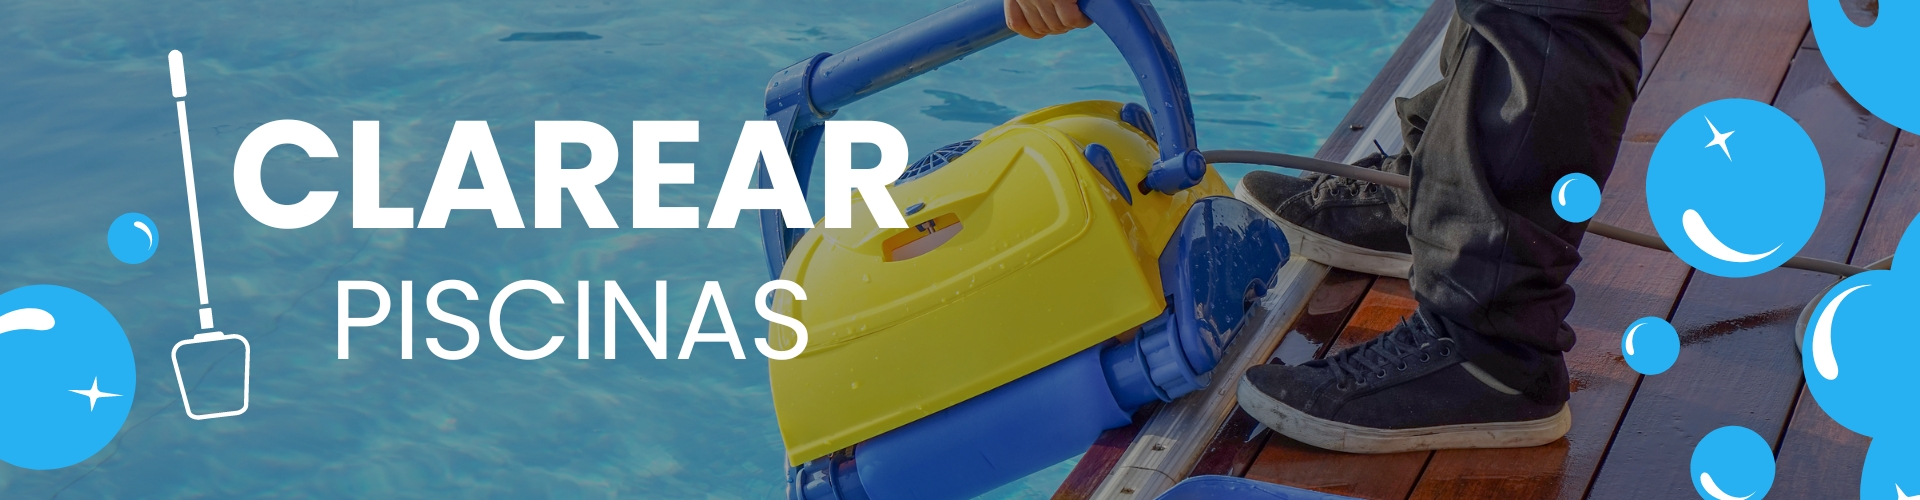
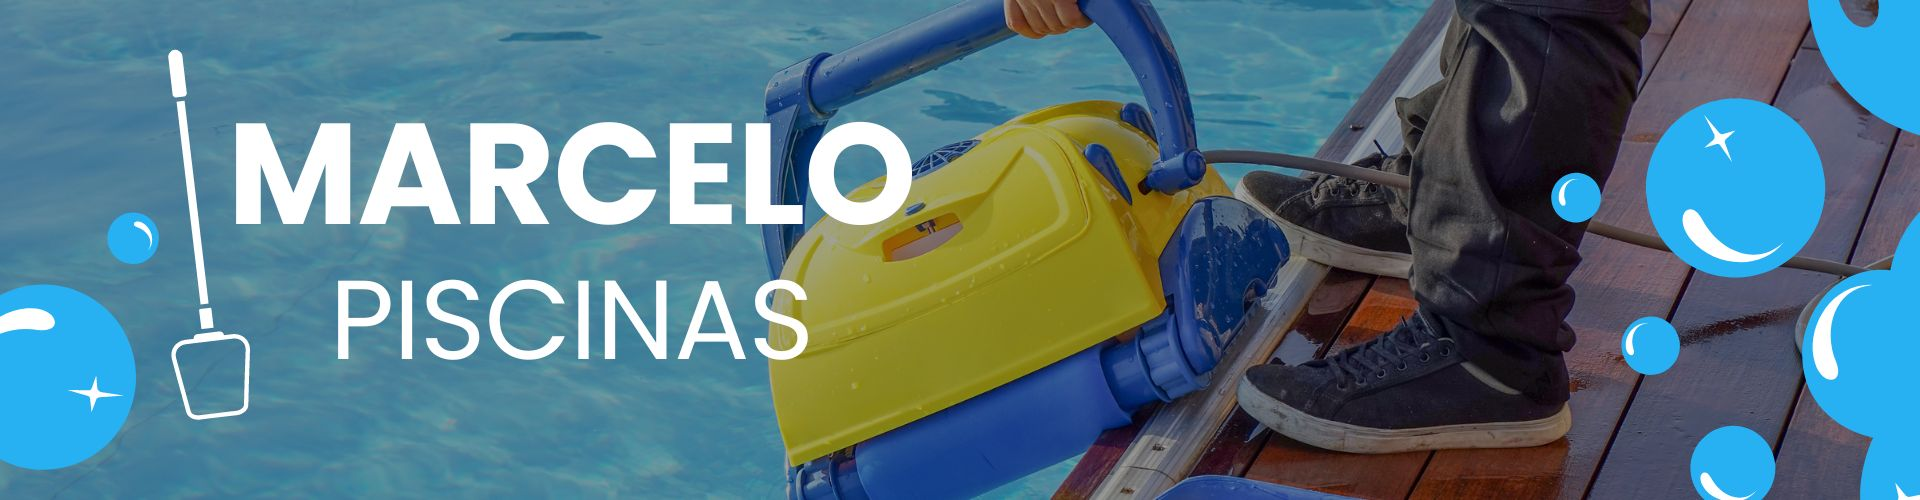
alterações marcelo

Changed region(s): [[0.125, 0.24, 0.5, 0.48]]

diff --git a/index.html b/index.html
@@ -4,19 +4,19 @@
 <head>
     <meta charset="UTF-8">
     <meta name="robots" content="index, follow" />
-    <meta name="author" content="Clarear Piscinas" />
+    <meta name="author" content="Marcelo Piscinas" />
     <meta name="viewport" content="width=device-width, initial-scale=1.0">
     <meta name="description"
-        content="Garanta uma piscina sempre limpa e cristalina com a Clarear Piscinas. Oferecemos serviços profissionais de limpeza, tratamento químico e manutenção para piscinas residenciais e comerciais. Atendimento rápido e confiável. Solicite uma cotação!">
+        content="Garanta uma piscina sempre limpa e cristalina com a Marcelo Piscinas. Oferecemos serviços profissionais de limpeza, tratamento químico e manutenção para piscinas residenciais e comerciais. Atendimento rápido e confiável. Solicite uma cotação!">
     <meta name="keywords"
-        content="limpeza de piscinas, manutenção de piscinas, tratamento de água de piscina, serviços de piscina, Clarear Piscinas" />
-    <meta property="og:title" content="Clarear Piscinas - Limpeza e Manutenção Profissional de Piscinas" />
+        content="limpeza de piscinas, manutenção de piscinas, tratamento de água de piscina, serviços de piscina, Marcelo Piscinas" />
+    <meta property="og:title" content="Marcelo Piscinas - Limpeza e Manutenção Profissional de Piscinas" />
     <meta property="og:description"
         content="Serviços especializados em limpeza, tratamento químico e manutenção de piscinas para residências e comércios. Agende sua visita!" />
     <meta property="og:image" content="URL_DA_IMAGEM" />
-    <meta property="og:url" content="https://www.clarearpiscinas.com.br" />
+    <meta property="og:url" content="https://www.marcelopiscinas.com.br" />
     <meta property="og:type" content="website" />
-    <title>Clarear Piscinas - Serviços de Limpeza e Manutenção de Piscinas Profissionais</title>
+    <title>Marcelo Piscinas - Serviços de Limpeza e Manutenção de Piscinas Profissionais</title>
     <link rel="preconnect" href="https://fonts.googleapis.com">
     <link rel="preconnect" href="https://fonts.gstatic.com" crossorigin>
     <link
@@ -51,7 +51,7 @@
                             <li><a href="#servicos">Serviços</a>                                
                             </li>
                             <li><a href="#contato">Contato</a></li>
-                            <a class="botaoPadrao botaoPadraoWhatsapp" rel="nofollow" target="_blank" href="https://wa.me/5517997717693?text=Olá!%20Gostaria%20de%20mais%20informações%20sobre%20os%20serviços%20de%20limpeza%20e%20manutenção%20de%20piscinas%20da%20Clarear%20Piscinas." target="_blank"
+                            <a class="botaoPadrao botaoPadraoWhatsapp" rel="nofollow" target="_blank" href="https://wa.me/5517997717693?text=Olá!%20Gostaria%20de%20mais%20informações%20sobre%20os%20serviços%20de%20limpeza%20e%20manutenção%20de%20piscinas%20da%20Marcelo%20Piscinas." target="_blank"
                                 onclick="gtag('event', 'Clique no link', {'event_category': 'Clique no WhatsApp', 'event_label': 'Whatsapp'}); gtag_report_conversion();">Fale
                                 Conosco<i class="fa fa-whatsapp " aria-hidden="true"></i></a>
                         </ul>
@@ -105,14 +105,14 @@
                     <h3 class="mb5 fSubtitulo" >Soluções completas de limpeza, manutenção e tratamento da água</h3>
                     <h1 class="mb30 fTitulo">Serviços Especializados para Manter Sua <span class="fTema">Piscina</span>
                         Sempre <span class="fTema">Perfeita</span></h1>
-                    <p class="mb30 fDescricao">Na Clarear Piscinas, oferecemos uma variedade de serviços essenciais para
+                    <p class="mb30 fDescricao">Na Marcelo Piscinas, oferecemos uma variedade de serviços essenciais para
                         garantir que sua piscina esteja sempre limpa, segura e pronta para o uso.
                         <br> <br>
                         Nossos serviços
                         profissionais atendem às necessidades de piscinas residenciais e comerciais, proporcionando água
                         cristalina e ambiente saudável. Confira abaixo nossas principais soluções.
                     </p>
-                    <div><a class="botaoPadrao botaoPadraoWhatsapp mb30" rel="nofollow" target="_blank" href="https://wa.me/5517997717693?text=Olá!%20Gostaria%20de%20mais%20informações%20sobre%20os%20serviços%20de%20limpeza%20e%20manutenção%20de%20piscinas%20da%20Clarear%20Piscinas." target="_blank"
+                    <div><a class="botaoPadrao botaoPadraoWhatsapp mb30" rel="nofollow" target="_blank" href="https://wa.me/5517997717693?text=Olá!%20Gostaria%20de%20mais%20informações%20sobre%20os%20serviços%20de%20limpeza%20e%20manutenção%20de%20piscinas%20da%20Marcelo%20Piscinas." target="_blank"
                             onclick="gtag('event', 'Clique no link', {'event_category': 'Clique no WhatsApp', 'event_label': 'Whatsapp'}); gtag_report_conversion();">Fale
                             Conosco<i class="fa fa-whatsapp " aria-hidden="true"></i></a>
 
@@ -120,7 +120,7 @@
                 </div>
                 <div class="col-md-6" data-aos="fade-left" data-aos-duration="2100">
                     <img src="img/servicos-img.svg" width="100%" class="servico-banner" border="0"
-                        title="Entre em contato e mantenha sua piscina sempre clara e segura com a Clarear Piscinas!"
+                        title="Entre em contato e mantenha sua piscina sempre clara e segura com a Marcelo Piscinas!"
                         alt="Imagem Ilustrando os serviços prestados">
                 </div>
             </div>
@@ -134,7 +134,7 @@
                     <div class="mb5 fSubtitulo">Serviços Especializados para Garantir uma Piscina Sempre Limpa e Segura
                     </div>
                     <div class="mb30 fTitulo">Cuidado Completo para Sua <span class="fTema">Piscina</span></div>
-                    <div class="mb50 fDescricao">Na Clarear Piscinas, oferecemos os serviços essenciais para manter sua
+                    <div class="mb50 fDescricao">Na Marcelo Piscinas, oferecemos os serviços essenciais para manter sua
                         piscina sempre perfeita. Desde a limpeza completa e manutenção de equipamentos até a recuperação
                         de águas verdes, nossa equipe especializada garante a qualidade da sua piscina para que você
                         aproveite sem preocupações.</div>
@@ -142,11 +142,11 @@
                 <div class="col-md-4 col-xs col-sm-4" data-aos="fade-up" data-aos-duration="1900">
                     <div class="servico-container">
                         <div class="servico-img">
-                            <a href="https://wa.me/5517997717693?text=Olá!%20Gostaria%20de%20mais%20informações%20sobre%20os%20serviços%20de%20limpeza%20e%20manutenção%20de%20piscinas%20da%20Clarear%20Piscinas." title="Clique aqui para inicar uma conversa via WhatsApp" target="_blank"><img src="img/servico-img1.svg" width="100%"
-                                    title="Entre em contato e mantenha sua piscina sempre clara e segura com a Clarear Piscinas!"
+                            <a href="https://wa.me/5517997717693?text=Olá!%20Gostaria%20de%20mais%20informações%20sobre%20os%20serviços%20de%20limpeza%20e%20manutenção%20de%20piscinas%20da%20Marcelo%20Piscinas." title="Clique aqui para inicar uma conversa via WhatsApp" target="_blank"><img src="img/servico-img1.svg" width="100%"
+                                    title="Entre em contato e mantenha sua piscina sempre clara e segura com a Marcelo Piscinas!"
                                     alt=""></a>
                         </div>
-                        <div class="servico-titulo"><a href="https://wa.me/5517997717693?text=Olá!%20Gostaria%20de%20mais%20informações%20sobre%20os%20serviços%20de%20limpeza%20e%20manutenção%20de%20piscinas%20da%20Clarear%20Piscinas." title="Clique aqui para inicar uma conversa via WhatsApp" target="_blank" class="lNeutro">Limpeza Completa da
+                        <div class="servico-titulo"><a href="https://wa.me/5517997717693?text=Olá!%20Gostaria%20de%20mais%20informações%20sobre%20os%20serviços%20de%20limpeza%20e%20manutenção%20de%20piscinas%20da%20Marcelo%20Piscinas." title="Clique aqui para inicar uma conversa via WhatsApp" target="_blank" class="lNeutro">Limpeza Completa da
                                 Piscina</a></div>
                         <div class="servico-descricao hidden-xs hidden-sm">Remoção de folhas, sujeira e detritos, aspiração do fundo da
                             piscina, e escovação das paredes e bordas. Mantemos a aparência e a higiene da sua piscina
@@ -156,11 +156,11 @@
                 <div class="col-md-4 col-xs col-sm-4" data-aos="fade-up" data-aos-duration="2200">
                     <div class="servico-container">
                         <div class="servico-img">
-                            <a href="https://wa.me/5517997717693?text=Olá!%20Gostaria%20de%20mais%20informações%20sobre%20os%20serviços%20de%20limpeza%20e%20manutenção%20de%20piscinas%20da%20Clarear%20Piscinas." title="Clique aqui para inicar uma conversa via WhatsApp" target="_blank"><img src="img/servico-img2.svg" width="100%"
-                                    title="Entre em contato e mantenha sua piscina sempre clara e segura com a Clarear Piscinas!"
+                            <a href="https://wa.me/5517997717693?text=Olá!%20Gostaria%20de%20mais%20informações%20sobre%20os%20serviços%20de%20limpeza%20e%20manutenção%20de%20piscinas%20da%20Marcelo%20Piscinas." title="Clique aqui para inicar uma conversa via WhatsApp" target="_blank"><img src="img/servico-img2.svg" width="100%"
+                                    title="Entre em contato e mantenha sua piscina sempre clara e segura com a marcelo Piscinas!"
                                     alt=""></a>
                         </div>
-                        <div class="servico-titulo"><a href="https://wa.me/5517997717693?text=Olá!%20Gostaria%20de%20mais%20informações%20sobre%20os%20serviços%20de%20limpeza%20e%20manutenção%20de%20piscinas%20da%20Clarear%20Piscinas." title="Clique aqui para inicar uma conversa via WhatsApp" target="_blank" class="lNeutro">Manutenção de
+                        <div class="servico-titulo"><a href="https://wa.me/5517997717693?text=Olá!%20Gostaria%20de%20mais%20informações%20sobre%20os%20serviços%20de%20limpeza%20e%20manutenção%20de%20piscinas%20da%20Marcelo%20Piscinas." title="Clique aqui para inicar uma conversa via WhatsApp" target="_blank" class="lNeutro">Manutenção de
                                 Equipamentos</a></div>
                         <div class="servico-descricao hidden-xs hidden-sm">Verificação e limpeza de filtros, bombas e outros equipamentos
                             essenciais para o bom funcionamento da piscina. Evite problemas e mantenha o sistema sempre
@@ -170,11 +170,11 @@
                 <div class="col-md-4 col-xs col-sm-4" data-aos="fade-up" data-aos-duration="2400">
                     <div class="servico-container">
                         <div class="servico-img">
-                            <a href="https://wa.me/5517997717693?text=Olá!%20Gostaria%20de%20mais%20informações%20sobre%20os%20serviços%20de%20limpeza%20e%20manutenção%20de%20piscinas%20da%20Clarear%20Piscinas." target="_blank" title="Clique aqui para inicar uma conversa via WhatsApp" ><img src="img/servico-img3.svg" width="100%"
-                                    title="Entre em contato e mantenha sua piscina sempre clara e segura com a Clarear Piscinas!"
+                            <a href="https://wa.me/5517997717693?text=Olá!%20Gostaria%20de%20mais%20informações%20sobre%20os%20serviços%20de%20limpeza%20e%20manutenção%20de%20piscinas%20da%20Marcelo%20Piscinas." target="_blank" title="Clique aqui para inicar uma conversa via WhatsApp" ><img src="img/servico-img3.svg" width="100%"
+                                    title="Entre em contato e mantenha sua piscina sempre clara e segura com a marcelo Piscinas!"
                                     alt=""></a>
                         </div>
-                        <div class="servico-titulo"><a href="https://wa.me/5517997717693?text=Olá!%20Gostaria%20de%20mais%20informações%20sobre%20os%20serviços%20de%20limpeza%20e%20manutenção%20de%20piscinas%20da%20Clarear%20Piscinas." title="Clique aqui para inicar uma conversa via WhatsApp" target="_blank" class="lNeutro">Serviço de Recuperação
+                        <div class="servico-titulo"><a href="https://wa.me/5517997717693?text=Olá!%20Gostaria%20de%20mais%20informações%20sobre%20os%20serviços%20de%20limpeza%20e%20manutenção%20de%20piscinas%20da%20Marcelo%20Piscinas." title="Clique aqui para inicar uma conversa via WhatsApp" target="_blank" class="lNeutro">Serviço de Recuperação
                                 de Águas Verdes</a></div>
                         <div class="servico-descricao hidden-xs hidden-sm">Transformamos águas verdes e turvas em piscinas cristalinas com
                             técnicas específicas de tratamento intensivo, restabelecendo a qualidade da água em pouco
@@ -186,8 +186,8 @@
     </div>
 
     <div class="container full ptb50 txtCenter  destaque-bg">
-            <div class="mb30 fTitulo txtCenter" data-aos="zoom-in" data-aos-duration="2100"><a  href="https://wa.me/5517997717693?text=Olá!%20Gostaria%20de%20mais%20informações%20sobre%20os%20serviços%20de%20limpeza%20e%20manutenção%20de%20piscinas%20da%20Clarear%20Piscinas." title="Clique aqui para inicar uma conversa via WhatsApp">Deixe Sua Piscina Impecável com Nossa Ajuda!</a></div>
-            <div><a class="botaoPadrao botaoPadraoWhatsapp" rel="nofollow" target="_blank" href="https://wa.me/5517997717693?text=Olá!%20Gostaria%20de%20mais%20informações%20sobre%20os%20serviços%20de%20limpeza%20e%20manutenção%20de%20piscinas%20da%20Clarear%20Piscinas." title="Clique aqui para inicar uma conversa via WhatsApp"
+            <div class="mb30 fTitulo txtCenter" data-aos="zoom-in" data-aos-duration="2100"><a  href="https://wa.me/5517997717693?text=Olá!%20Gostaria%20de%20mais%20informações%20sobre%20os%20serviços%20de%20limpeza%20e%20manutenção%20de%20piscinas%20da%20Marcelo%20Piscinas." title="Clique aqui para inicar uma conversa via WhatsApp">Deixe Sua Piscina Impecável com Nossa Ajuda!</a></div>
+            <div><a class="botaoPadrao botaoPadraoWhatsapp" rel="nofollow" target="_blank" href="https://wa.me/5517997717693?text=Olá!%20Gostaria%20de%20mais%20informações%20sobre%20os%20serviços%20de%20limpeza%20e%20manutenção%20de%20piscinas%20da%20Marcelo%20Piscinas." title="Clique aqui para inicar uma conversa via WhatsApp"
                     onclick="gtag('event', 'Clique no link', {'event_category': 'Clique no WhatsApp', 'event_label': 'Whatsapp'}); gtag_report_conversion();">Fale
                     Conosco<i class="fa fa-whatsapp " aria-hidden="true"></i></a>
             </div>
@@ -201,7 +201,7 @@
                     <div class="mb5 fSubtitulo">Manutenção Profissional e Cuidado de Qualidade para Piscinas Perfeitas
                     </div>
                     <div class="mb10 fTitulo">Sua <span class="fTema">Piscina</span> Sempre Limpa e Segura</div>
-                    <div class="mb30 fDescricao">Não deixe sua piscina fora de uso! Na Clarear Piscinas, oferecemos
+                    <div class="mb30 fDescricao">Não deixe sua piscina fora de uso! Na Marcelo Piscinas, oferecemos
                         soluções completas e personalizadas que mantêm sua piscina cristalina e segura o ano todo. Desde
                         a limpeza profunda até a recuperação de águas verdes, nosso foco é entregar resultados rápidos e
                         eficientes, garantindo sua tranquilidade e conforto.
@@ -259,7 +259,7 @@
                 </div>
 
                 <div class="txtCenter"><a class="botaoPadrao botaoPadraoWhatsapp" rel="nofollow" target="_blank"
-                    href="https://wa.me/5517997717693?text=Olá!%20Gostaria%20de%20mais%20informações%20sobre%20os%20serviços%20de%20limpeza%20e%20manutenção%20de%20piscinas%20da%20Clarear%20Piscinas." title="Clique aqui para inicar uma conversa via WhatsApp"
+                    href="https://wa.me/5517997717693?text=Olá!%20Gostaria%20de%20mais%20informações%20sobre%20os%20serviços%20de%20limpeza%20e%20manutenção%20de%20piscinas%20da%20Marcelo%20Piscinas." title="Clique aqui para inicar uma conversa via WhatsApp"
                         onclick="gtag('event', 'Clique no link', {'event_category': 'Clique no WhatsApp', 'event_label': 'Whatsapp'}); gtag_report_conversion();">Fale
                         Conosco<i class="fa fa-whatsapp " aria-hidden="true"></i></a>
 
@@ -275,7 +275,7 @@
                 <div class="col-md-6">
                     <div class="mb5 fSubtitulo">Quem Somos</div>
                     <div class="mb10 fTitulo">Compromisso com a Qualidade e Confiança</div>
-                    <div class="mb30 fDescricao">Na Clarear Piscinas, somos apaixonados por proporcionar a melhor
+                    <div class="mb30 fDescricao">Na Marcelo Piscinas, somos apaixonados por proporcionar a melhor
                         experiência de lazer para nossos clientes, garantindo que suas piscinas estejam sempre limpas,
                         seguras e prontas para o uso.
                         <br><br>
@@ -296,7 +296,7 @@
             <div class="item">
                 <div class="depoimento-container">
                     <img src="img/star-icon.png" class="depoimento-estrela" width="100%">
-                    <p class="depoimento-texto">"Serviço excelente! Minha piscina está sempre impecável graças à Clarear Piscinas."</p>                                        
+                    <p class="depoimento-texto">"Serviço excelente! Minha piscina está sempre impecável graças à Marcelo Piscinas."</p>                                        
                     <h4 class="depoimento-autor">- João Silva</h4>
                 </div>
             </div>
@@ -370,7 +370,7 @@
             <div class="row">
                 <div class="col-md-4">
                     <div class="rodape-logo mb30">
-                        <a href="#home"><img class="rodape-img" src="img/rodape-logo.svg" width="100%" title="Na Clarear Piscinas, oferecemos soluções completas e personalizadas que mantêm sua piscina cristalina e segura o ano todo." alt="Logo"></a>
+                        <a href="#home"><img class="rodape-img" src="img/rodape-logo.svg" width="100%" title="Na Marcelo Piscinas, oferecemos soluções completas e personalizadas que mantêm sua piscina cristalina e segura o ano todo." alt="Logo"></a>
                         <p class="rodape-descricao">A melhor escolha para limpeza e manutenção de piscinas. Garantimos
                             qualidade e satisfação em cada serviço.</p>
                     </div>
@@ -388,21 +388,21 @@
                     <h5 class="rodape-titulo">Contatos</h5>
                     <ul class="list-unstyled rodape-contatos">
                         <li><i class="fa fa-phone"></i> <a href="tel:5517997717693">(17) 99771-7693</a></li>
-                        <li><i class="fa fa-envelope"></i> <a href="mailto:contato@clarearpiscinas.com.br">contato@clarearpiscinas.com.br</a></li>   
-                        <li><a href="https://wa.me/5517997717693?text=Olá!%20Gostaria%20de%20mais%20informações%20sobre%20os%20serviços%20de%20limpeza%20e%20manutenção%20de%20piscinas%20da%20Clarear%20Piscinas." title="Clique aqui para inicar uma conversa via WhatsApp" rel="nofollow" target="_blank"
+                        <li><i class="fa fa-envelope"></i> <a href="mailto:contato@marcelopiscinas.com.br">contato@marcelopiscinas.com.br</a></li>   
+                        <li><a href="https://wa.me/5517997717693?text=Olá!%20Gostaria%20de%20mais%20informações%20sobre%20os%20serviços%20de%20limpeza%20e%20manutenção%20de%20piscinas%20da%20Marcelo%20Piscinas." title="Clique aqui para inicar uma conversa via WhatsApp" rel="nofollow" target="_blank"
                             onclick="gtag('event', 'Clique no link', {'event_category': 'Clique no WhatsApp', 'event_label': 'Whatsapp'}); gtag_report_conversion();"><i class="fa fa-whatsapp"></i> WhatsApp</a></li>
                         <li><a href="https://www.instagram.com/marcelopiscinas24/" target="_blank"><i class="fa fa-instagram"></i> Instagram</a></li>                     
                     </ul>
                 </div>               
                 <div class="col-md-12 ptb50 txtCenter">
-                    <div class="rodape-copyright">© 2024 Clarear Piscinas - Todos os direitos reservados.</div>
+                    <div class="rodape-copyright">© 2024 Marcelo Piscinas - Todos os direitos reservados.</div>
                 </div>
             </div>
         </div>
     </div>
 
     <div class="whatsBotaoRodape">
-        <a href="https://wa.me/5517997717693?text=Olá!%20Gostaria%20de%20mais%20informações%20sobre%20os%20serviços%20de%20limpeza%20e%20manutenção%20de%20piscinas%20da%20Clarear%20Piscinas." title="Clique aqui para inicar uma conversa via WhatsApp" rel="nofollow" target="_blank"
+        <a href="https://wa.me/5517997717693?text=Olá!%20Gostaria%20de%20mais%20informações%20sobre%20os%20serviços%20de%20limpeza%20e%20manutenção%20de%20piscinas%20da%20Marcelo%20Piscinas." title="Clique aqui para inicar uma conversa via WhatsApp" rel="nofollow" target="_blank"
             onclick="gtag('event', 'Clique no link', {'event_category': 'Clique no WhatsApp', 'event_label': 'Whatsapp'}); gtag_report_conversion();">
             <svg fill="#000000" height="200px" width="200px" version="1.1" id="Layer_1"
                 xmlns="http://www.w3.org/2000/svg" xmlns:xlink="http://www.w3.org/1999/xlink" viewBox="0 0 308 308"
@@ -424,7 +424,7 @@
     </div>
 
     <div class="whatsAppRodape">
-        <a href="https://wa.me/5517997717693?text=Olá!%20Gostaria%20de%20mais%20informações%20sobre%20os%20serviços%20de%20limpeza%20e%20manutenção%20de%20piscinas%20da%20Clarear%20Piscinas." title="Clique aqui para inicar uma conversa via WhatsApp" rel="nofollow" target="_blank" onclick="gtag('event', 'Clique no link', {'event_category': 'Clique no WhatsApp', 'event_label': 'Whatsapp'}); gtag_report_conversion();">
+        <a href="https://wa.me/5517997717693?text=Olá!%20Gostaria%20de%20mais%20informações%20sobre%20os%20serviços%20de%20limpeza%20e%20manutenção%20de%20piscinas%20da%20Marcelo%20Piscinas." title="Clique aqui para inicar uma conversa via WhatsApp" rel="nofollow" target="_blank" onclick="gtag('event', 'Clique no link', {'event_category': 'Clique no WhatsApp', 'event_label': 'Whatsapp'}); gtag_report_conversion();">
             <p class="e18 txtCenter">Fale Conosco<i class="ml10 fa fa-whatsapp"></i></p>
             <p class="e14 txtCenter">Clique para chamar no WhatsApp</p>
         </a>
